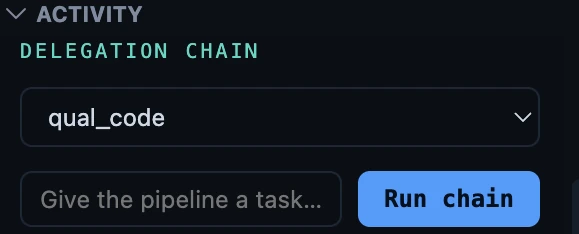
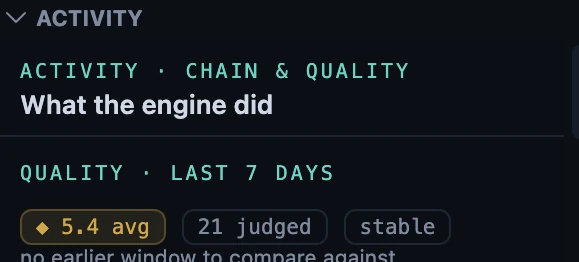
studio: Activity görseli gerçek okumayla, metni görselle eşleşti
Panel artık kendi kalite eğilimini gösteriyor (5.4 ort · 21 yargılanan ·
stable) ve karşılaştıracak eski pencere olmadığını dürüstçe söylüyor.
Sayfadaki metin görseli anlatıyordu ama görsel başka şey gösteriyordu;
ikisi eşitlendi. Engine kesiti de yeni 'routing order' etiketiyle.

diff --git a/core/landing/app/studio/page.tsx b/core/landing/app/studio/page.tsx
@@ -73,21 +73,21 @@ const FEATURES: {
       "Bring your own keys and ABS routes to free tiers before it reaches for anything billed. The cost of today and the projection for the month sit in the panel where you can see them — not in an invoice at the end of it. Keys are checked with the provider the moment you paste one, so a mistyped key fails immediately instead of quietly later.",
     shot: {
       src: "/product/detail-engine.webp",
-      alt: "The Engine section showing cascade and quota, with today and projected month both reading free",
+      alt: "The Engine section showing cascade and quota: today and projected month both reading free, above the routing order — what will be tried.",
       width: 579,
-      height: 252,
+      height: 288,
     },
   },
   {
     kicker: "Activity",
-    title: "A chain you can watch",
+    title: "It keeps a record of how good its own work has been",
     body:
-      "Multi-model pipelines run in the open: which provider answered, what was tried before it, what it cost. When a provider fails mid-question the next one picks it up, and the panel shows you that happened rather than hiding it behind a spinner.",
+      "Every graded change goes into a running average, so the panel can tell you whether the help you are getting is holding up or drifting. Below is a real reading from a working install — twenty-one changes judged, and honest about having no earlier window to compare against yet. Multi-model pipelines are drawn the same way: which model handled each step, and where one failed and the next took over.",
     shot: {
       src: "/product/detail-chain.webp",
-      alt: "The Activity section showing a delegation chain with the qual_code pipeline selected and a Run chain button",
+      alt: "The Activity section, headed Chain and quality, showing a seven-day reading of 5.4 average across 21 judged changes, marked stable, and noting there is no earlier window to compare against.",
       width: 579,
-      height: 234,
+      height: 262,
     },
   },
 ];
